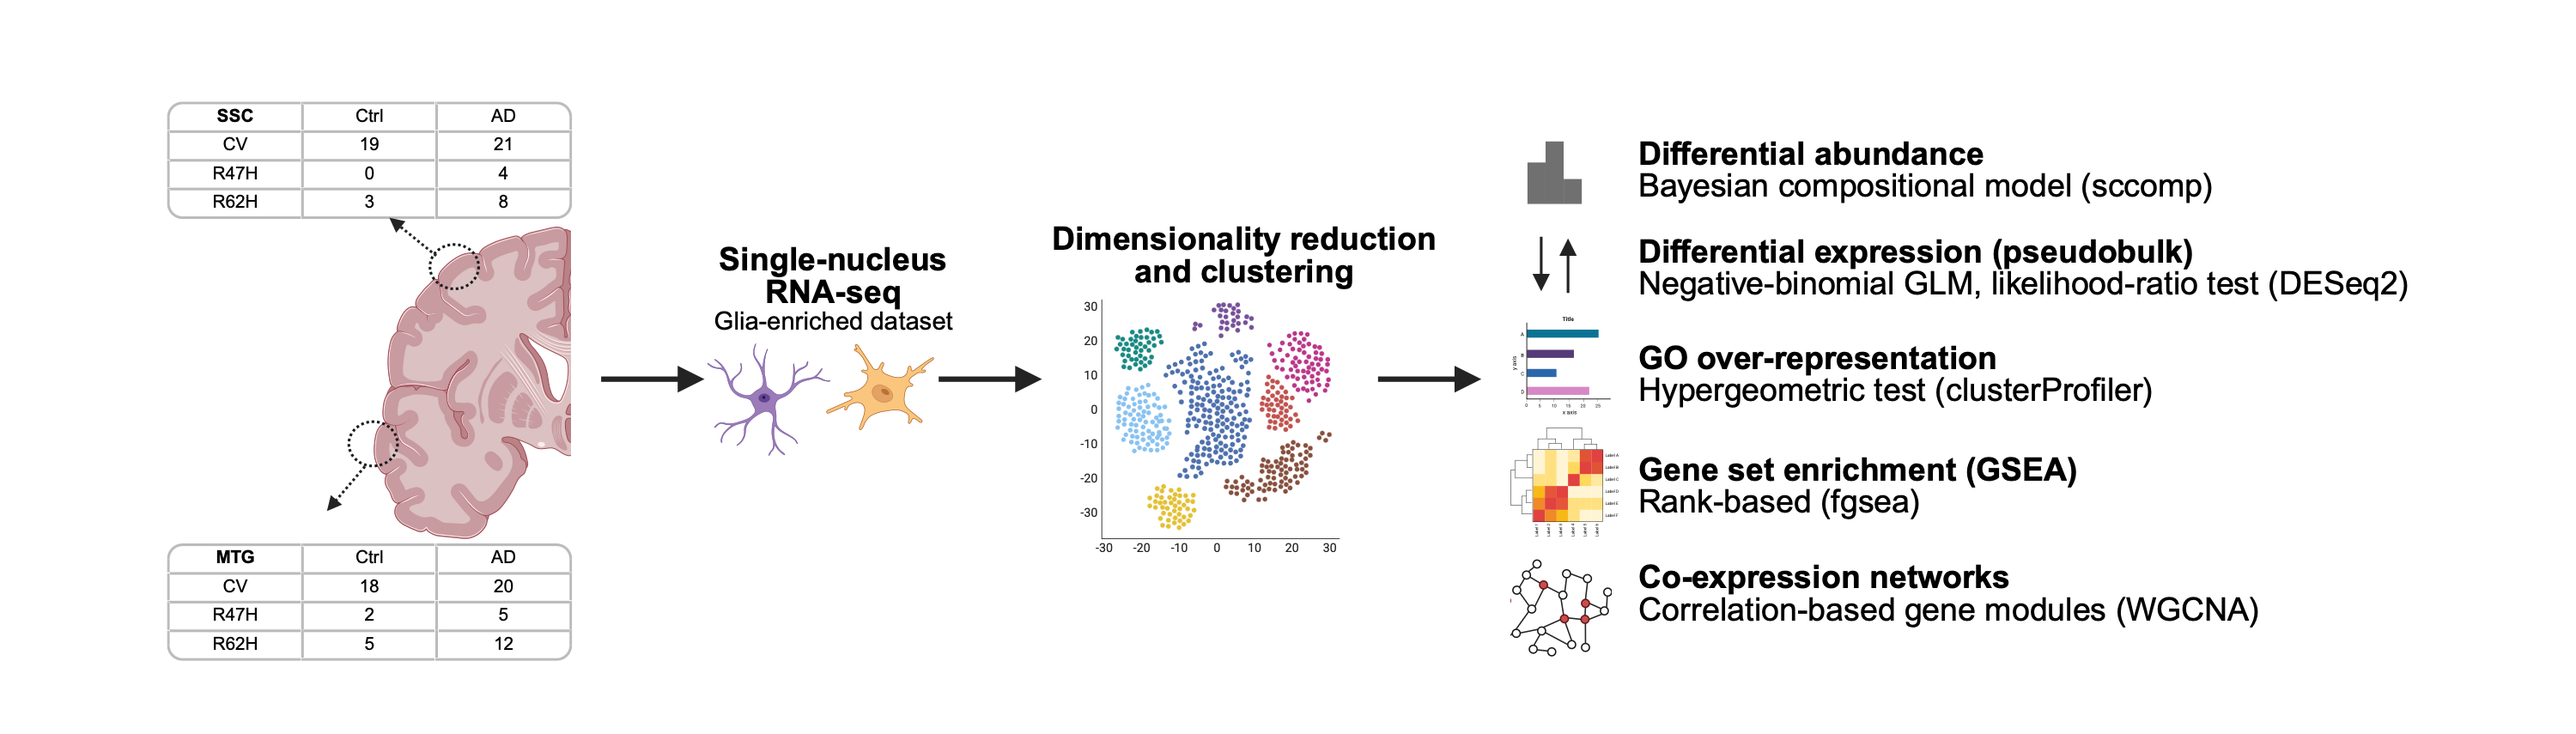
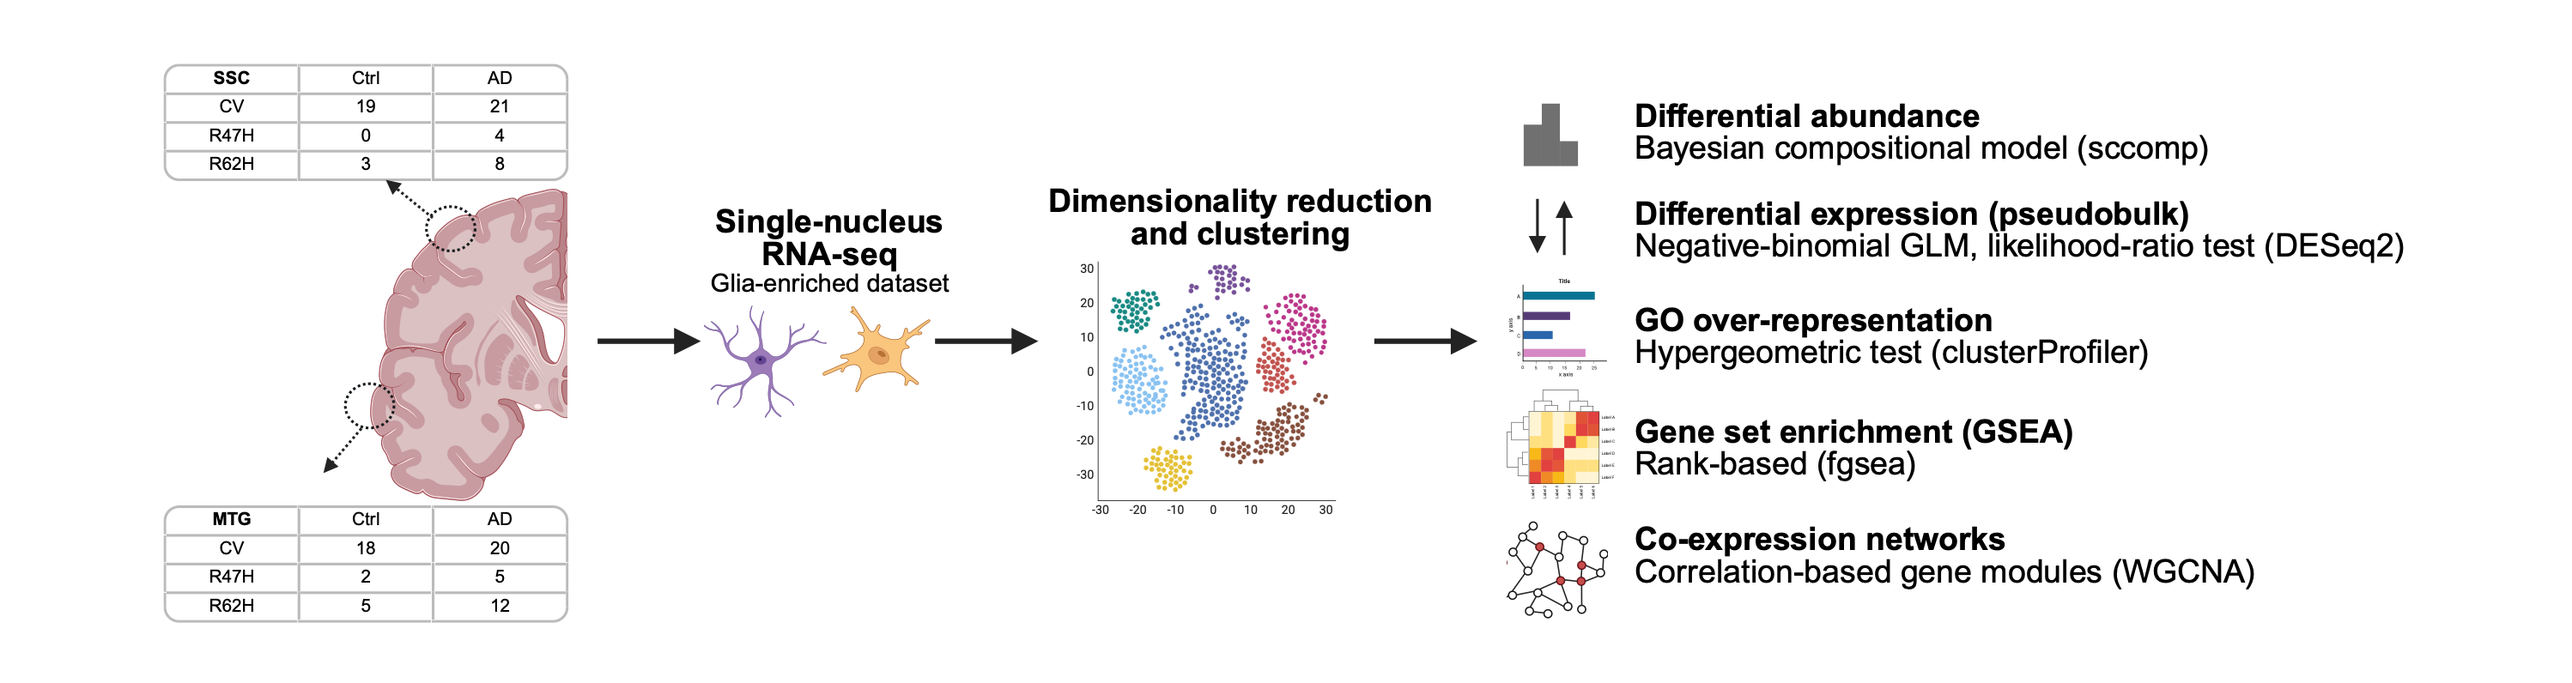
update figure link in README and replace image with optimized version

diff --git a/README.md b/README.md
@@ -6,10 +6,11 @@
 The Alzheimer's disease risk variants TREM2 R47H and R62H are primarily studied in microglia, where TREM2 is most highly expressed. This project examined whether these variants also alter astrocyte transcriptional responses to Alzheimer's disease. The study used a glia-enriched single-nucleus RNA-sequencing dataset from post-mortem cortex, comprising 225,292 astrocyte nuclei from 70 donors stratified by neuropathological diagnosis and TREM2 genotype. Analyses included astrocyte subclustering, differential abundance, pseudobulk differential expression, Gene Ontology over-representation, gene set enrichment, variance partitioning, and co-expression network analysis. The study design and analysis workflow are summarised in Figure 1.
 
 <p align="center">
-  <img src="doc/images/optimise_pp_method.png" width="900">
+  <img src="doc/images/optimise_pp_method.png?v=2" width="900">
 </p>
+
 **Figure 1.** Study design and analysis workflow.
-<br><br>
+
 Input data, intermediate analysis objects, and generated results are not included in this repository. The scripts use project-specific absolute paths that must be updated before reuse.
 
 
